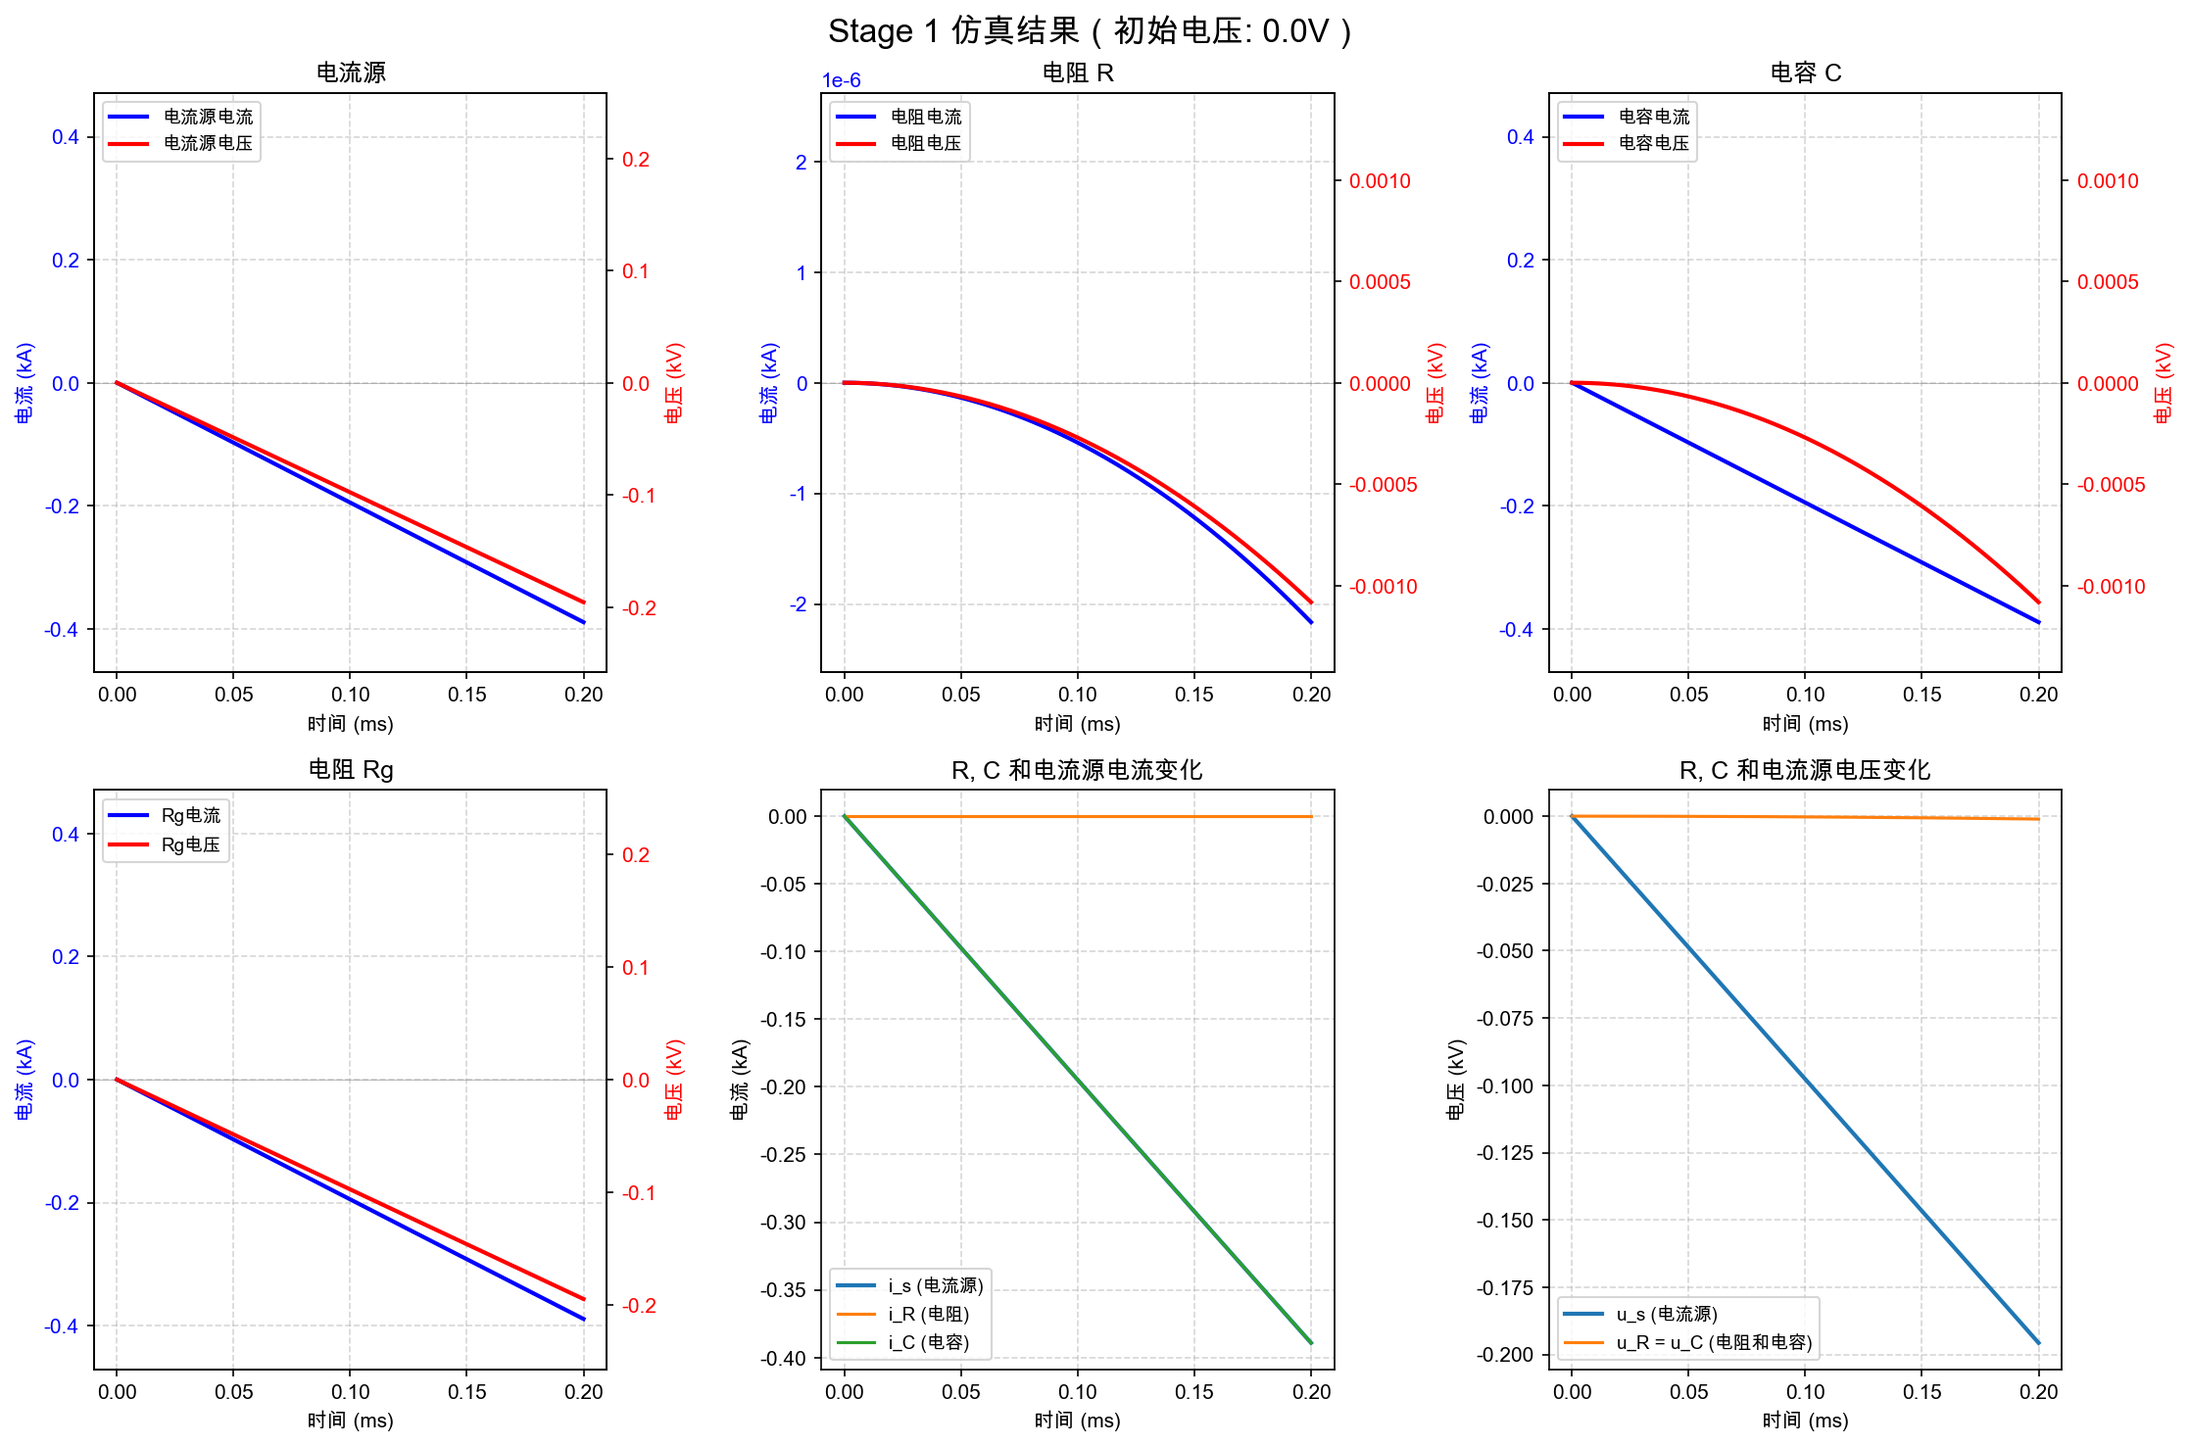
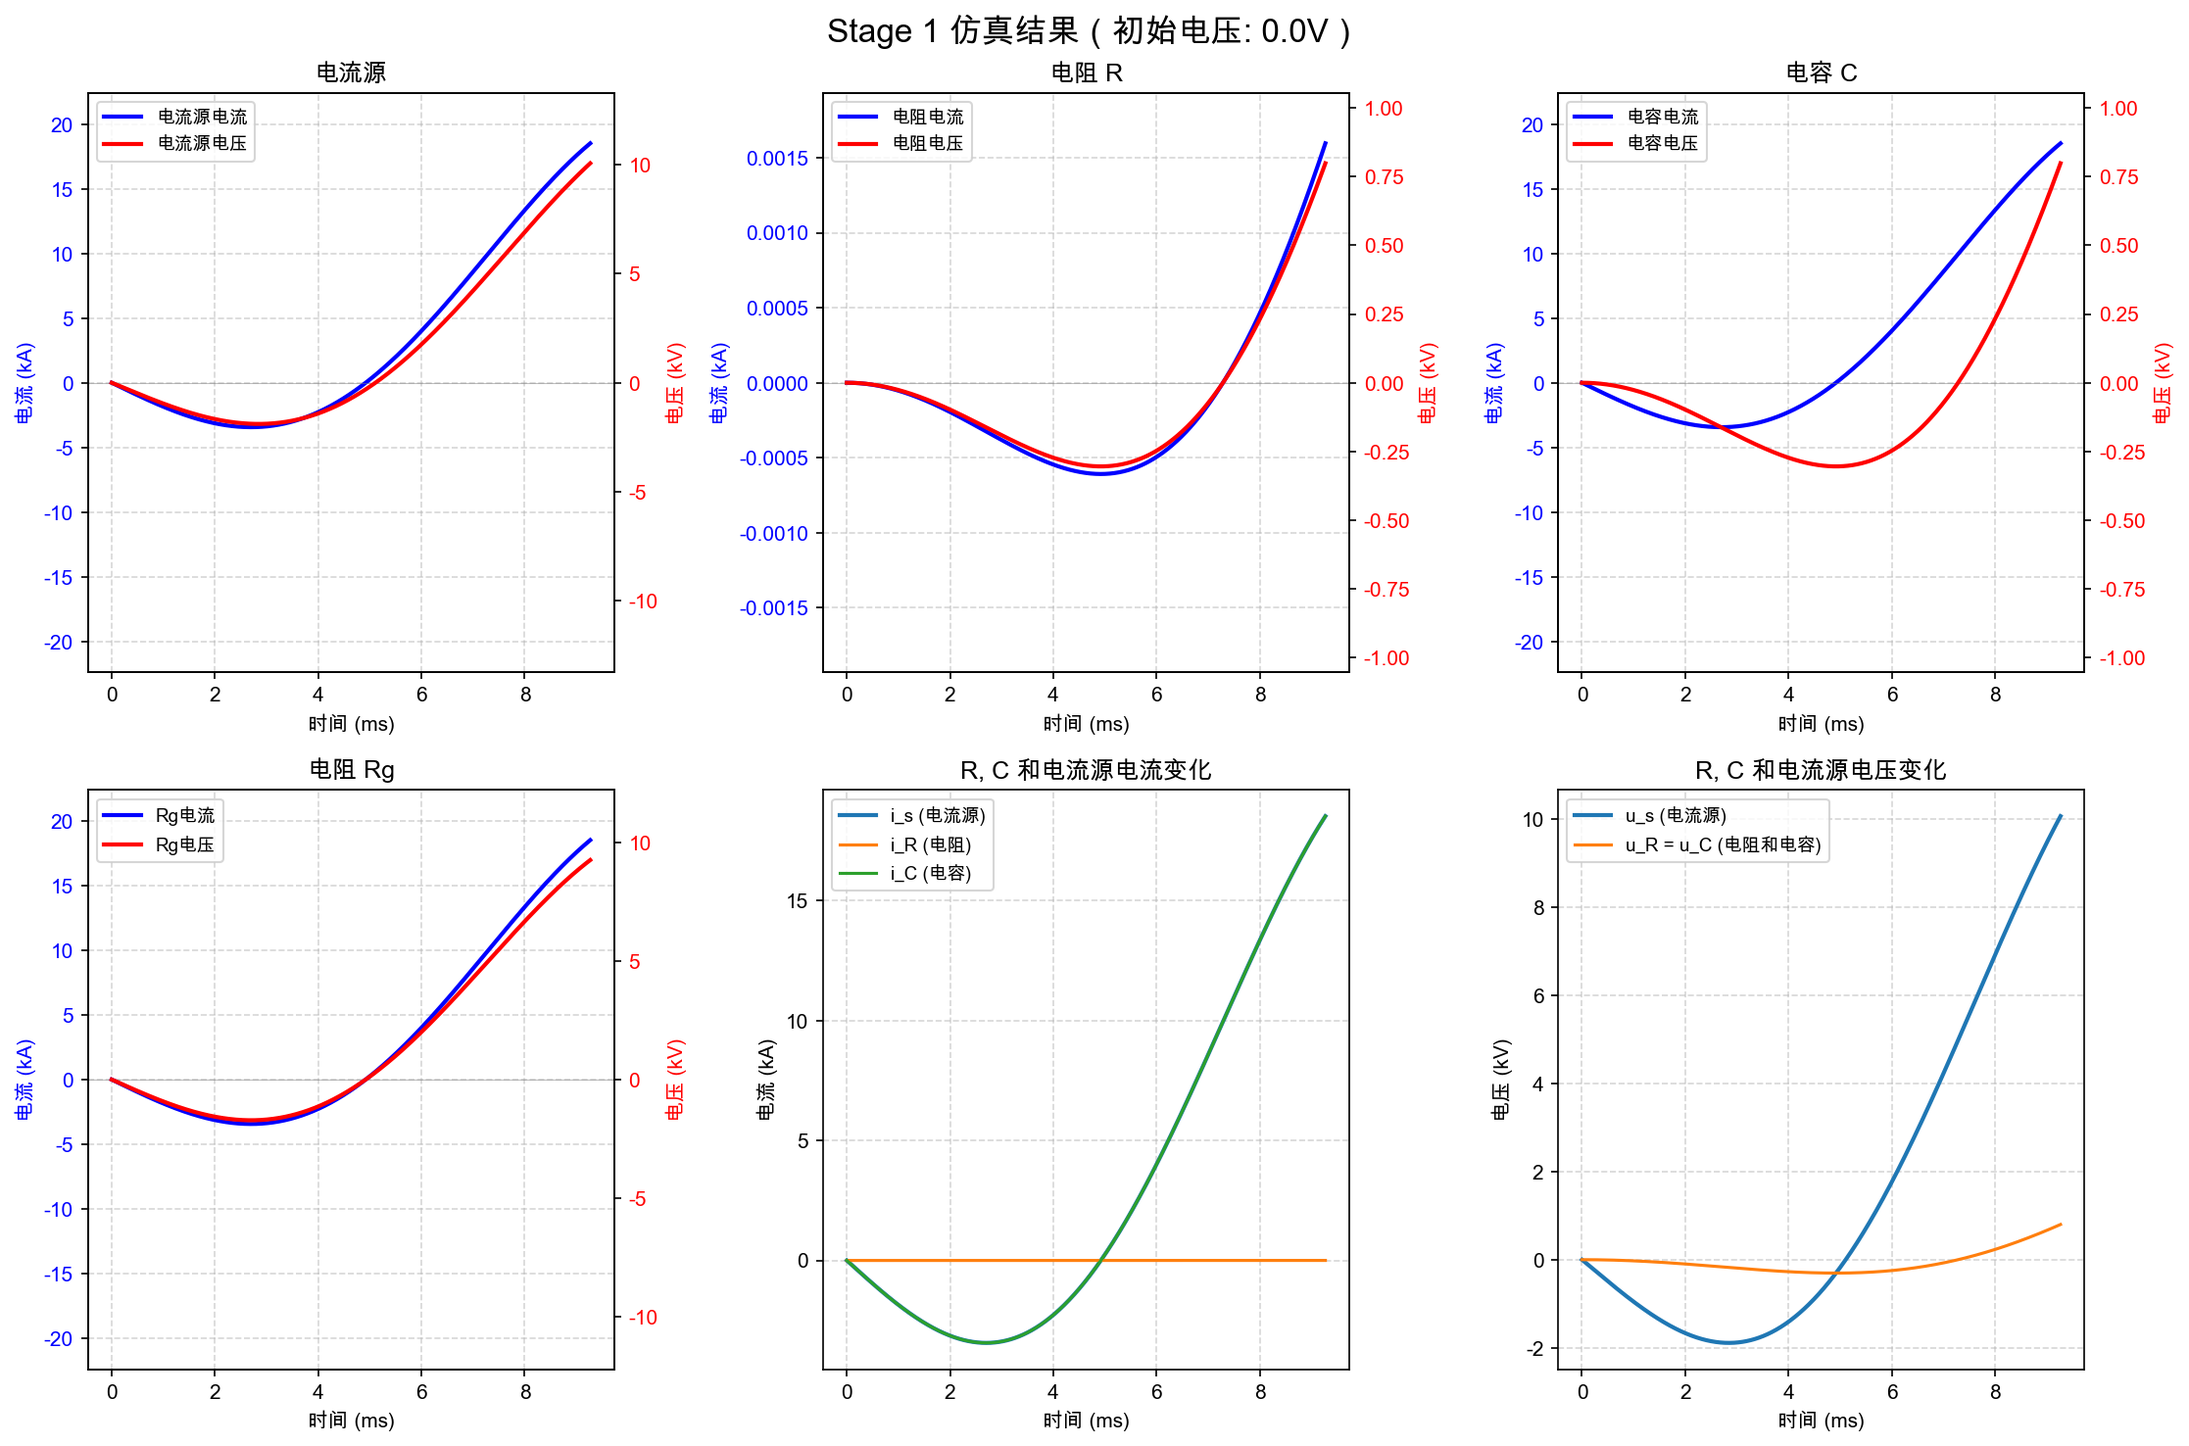
Update the cutoff time of stage_1

diff --git a/sources/stage_2.py b/sources/stage_2.py
@@ -111,7 +111,7 @@ from pathlib import Path
 from source import neutral_current
 from graph import plot_circuit_results
 from serialize import save_results_to_csv
-from reader import get_stage1_final_values
+from reader import get_stage1_final_values, get_stage1_final_time_and_u_c
 from circuit_params import (
     C, R, Rg, L,
     U_D1_THRESHOLD, U_D2_THRESHOLD, U_SCR_THRESHOLD,
@@ -121,8 +121,8 @@ from circuit_params import (
 )
 
 # ==================== 时间参数 ====================
-# 时间范围：200微秒到50毫秒
-T_START = 200e-6  # 200 微秒 = 0.0002 秒
+# 时间范围：从Stage 1结束时间到50毫秒
+# T_START 将从Stage 1的CSV文件中读取（动态设置）
 T_END = 50e-3  # 50 毫秒 = 0.05 秒
 DT = 10e-6  # 采样间隔：10 微秒 = 0.00001 秒
 
@@ -318,16 +318,16 @@ def stage2_ode(t: float, y: np.ndarray) -> np.ndarray:
     return np.array([du_c_dt, di_l_dt])
 
 
-def simulate_stage2(u0: float, i_l0: float = 0.0, t_start: float = T_START, 
+def simulate_stage2(u0: float, i_l0: float = 0.0, t_start: float | None = None, 
                     t_end: float = T_END, dt: float = DT, method: str = 'Radau', 
                     rtol: float = 1e-8, atol: float = 1e-10) -> tuple[np.ndarray, np.ndarray, np.ndarray, dict]:
     """
-    仿真 Stage 2（200微秒-50毫秒）的电路响应
+    仿真 Stage 2（从Stage 1结束时间到50毫秒）的电路响应
     
     参数：
         u0: 初始电容电压（V），从Stage 1的最终值继承
         i_l0: 初始电感电流（A），默认0
-        t_start: 仿真开始时间（秒），默认200微秒
+        t_start: 仿真开始时间（秒），如果为None则从Stage 1的CSV文件读取
         t_end: 仿真结束时间（秒），默认50毫秒
         dt: 采样间隔（秒），默认10微秒
         method: 求解器方法
@@ -340,6 +340,17 @@ def simulate_stage2(u0: float, i_l0: float = 0.0, t_start: float = T_START,
         i_l: 电感电流数组（A）
         results: 字典，包含各支路电流和电压
     """
+    # 如果t_start为None，尝试从Stage 1的CSV文件读取
+    if t_start is None:
+        try:
+            results_dir = Path(__file__).parent.parent / "results"
+            t_start, _ = get_stage1_final_time_and_u_c(u0, results_dir)
+            print(f"从Stage 1 CSV文件读取开始时间: t_start = {t_start*1000:.6f} ms")
+        except (FileNotFoundError, KeyError) as e:
+            print(f"警告: 无法从Stage 1 CSV文件读取开始时间: {e}")
+            print(f"使用默认值: t_start = 200e-6 (200微秒)")
+            t_start = 200e-6
+    
     # 时间采样点
     t_eval = np.arange(t_start, t_end + dt / 2, dt)
     
@@ -524,14 +535,18 @@ if __name__ == "__main__":
     # 情况1：初始电压为 0V（从Stage 1继承）
     stage1_u0_case1 = U0_CASE1
     try:
-        u_c_stage1_final, _ = get_stage1_final_values(stage1_u0_case1, results_dir)
-        print(f"从Stage 1 (u0={stage1_u0_case1}V) 继承: u_C(200µs) = {u_c_stage1_final:.6f} V")
+        t_stage1_end, u_c_stage1_final = get_stage1_final_time_and_u_c(stage1_u0_case1, results_dir)
+        print(f"从Stage 1 (u0={stage1_u0_case1}V) 继承:")
+        print(f"  结束时间: t = {t_stage1_end*1000:.6f} ms")
+        print(f"  u_C = {u_c_stage1_final:.6f} V")
         u0_case1 = u_c_stage1_final
+        t_start_case1 = t_stage1_end
     except FileNotFoundError:
-        print(f"警告: 未找到Stage 1的结果文件 (u0={stage1_u0_case1}V)，使用默认值 {U0_CASE1}V")
+        print(f"警告: 未找到Stage 1的结果文件 (u0={stage1_u0_case1}V)，使用默认值")
         u0_case1 = U0_CASE1
+        t_start_case1 = 200e-6  # 默认200微秒
     
-    t1, u_c1, i_l1, results1 = simulate_stage2(u0_case1)
+    t1, u_c1, i_l1, results1 = simulate_stage2(u0_case1, t_start=t_start_case1)
     print_summary(t1, u_c1, i_l1, results1, u0_case1)
     
     # 定义Stage 2的绘图配置
@@ -595,14 +610,18 @@ if __name__ == "__main__":
     # 情况2：初始电压为 750V（从Stage 1继承）
     stage1_u0_case2 = U0_CASE2
     try:
-        u_c_stage1_final, _ = get_stage1_final_values(stage1_u0_case2, results_dir)
-        print(f"\n从Stage 1 (u0={stage1_u0_case2}V) 继承: u_C(200µs) = {u_c_stage1_final:.6f} V")
+        t_stage1_end, u_c_stage1_final = get_stage1_final_time_and_u_c(stage1_u0_case2, results_dir)
+        print(f"\n从Stage 1 (u0={stage1_u0_case2}V) 继承:")
+        print(f"  结束时间: t = {t_stage1_end*1000:.6f} ms")
+        print(f"  u_C = {u_c_stage1_final:.6f} V")
         u0_case2 = u_c_stage1_final
+        t_start_case2 = t_stage1_end
     except FileNotFoundError:
-        print(f"警告: 未找到Stage 1的结果文件 (u0={stage1_u0_case2}V)，使用默认值 {U0_CASE2}V")
+        print(f"警告: 未找到Stage 1的结果文件 (u0={stage1_u0_case2}V)，使用默认值")
         u0_case2 = U0_CASE2
+        t_start_case2 = 200e-6  # 默认200微秒
     
-    t2, u_c2, i_l2, results2 = simulate_stage2(u0_case2)
+    t2, u_c2, i_l2, results2 = simulate_stage2(u0_case2, t_start=t_start_case2)
     print_summary(t2, u_c2, i_l2, results2, u0_case2)
     
     csv_path2 = results_dir / f"stage_2_results_u0_{stage1_u0_case2:.0f}V.csv"

diff --git a/sources/stage_1.py b/sources/stage_1.py
@@ -32,8 +32,9 @@ Stage 1: 0-200微秒电路仿真
 
 4. 数值求解：
    使用 scipy.integrate.solve_ivp 求解状态方程
-   时间范围：0 到 200 微秒（0 到 0.0002 秒）
-   采样间隔：1 微秒（0.000001 秒）
+   时间范围：0 到 200 毫秒（0 到 0.2 秒）
+   采样间隔：10 微秒（0.00001 秒）
+   退出条件：当 |u_C| > 800V 时自动停止仿真（事件检测）
 
 5. scipy.integrate.solve_ivp 接口约定：
    solve_ivp 要求传入的函数 fun(t, y) 必须返回 dy/dt（状态变量的导数）
@@ -67,10 +68,10 @@ from serialize import save_results_to_csv
 from circuit_params import C, R, Rg, U0_CASE1, U0_CASE2
 
 # ==================== 时间参数 ====================
-# 时间范围：0 到 200 微秒
+# 时间范围：0 到 200 毫秒
 T_START = 0.0
-T_END = 200e-6  # 200 微秒 = 0.0002 秒
-DT = 1e-6  # 采样间隔：1 微秒 = 0.000001 秒
+T_END = 200e-3  # 200 毫秒 = 0.2 秒
+DT = 10e-6  # 采样间隔：10 微秒 = 0.00001 秒
 
 
 def stage1_ode(t: float, u_c: np.ndarray) -> np.ndarray:
@@ -109,15 +110,50 @@ def stage1_ode(t: float, u_c: np.ndarray) -> np.ndarray:
     return np.array([du_dt])  # 返回数组，形状与 y0 一致
 
 
+def u_c_threshold_event(t: float, u_c: np.ndarray) -> float:
+    """
+    事件函数：当 |u_C| >= 800V 时触发事件，停止仿真
+    
+    参数：
+        t: 时间（秒）
+        u_c: 电容电压 u_C（作为状态变量 y[0] 传入，可能是数组或列表）
+    
+    返回：
+        返回值 = |u_C| - 800.0
+        - 当 |u_C| < 800 时，返回值 < 0（负值）
+        - 当 |u_C| >= 800 时，返回值 >= 0（非负值）
+    
+    事件触发机制：
+        solve_ivp检测函数值的符号变化（从负到正），而不是精确等于0
+        - 当返回值从负值变为非负值时，触发事件
+        - 不需要返回值精确等于0，避免了浮点数精度问题
+        - 这确保了当 |u_C| 从小于800变为大于等于800时，一定会触发事件
+    """
+    # 正确处理u_c的类型：可能是numpy数组、列表或标量
+    if isinstance(u_c, (np.ndarray, list)):
+        u_c_val = float(u_c[0])
+    else:
+        u_c_val = float(u_c)
+    
+    # 返回 |u_C| - 800.0
+    # solve_ivp会检测这个值从负到正的符号变化，触发事件
+    # 不需要精确等于0，只要符号从负变为非负即可
+    return abs(u_c_val) - 800.0
+
+
+u_c_threshold_event.terminal = True  # 事件触发时终止仿真
+u_c_threshold_event.direction = 1  # 只检测从负到正的穿越（|u_C|从小于800变为大于等于800）
+
+
 def simulate_stage1(u0: float, t_end: float = T_END, dt: float = DT,
                     method: str = 'Radau', rtol: float = 1e-8, atol: float = 1e-10) -> tuple[np.ndarray, np.ndarray, dict]:
     """
-    仿真 Stage 1（0-200微秒）的电路响应
+    仿真 Stage 1（0-200毫秒）的电路响应
     
     参数：
         u0: 初始电容电压（V）
-        t_end: 仿真结束时间（秒），默认200微秒
-        dt: 采样间隔（秒），默认1微秒
+        t_end: 仿真结束时间（秒），默认200毫秒
+        dt: 采样间隔（秒），默认10微秒
         method: 求解器方法，可选：
             - 'Radau': 隐式方法（默认，适合刚性问题）
             - 'RK45': 4-5阶Runge-Kutta（适合非刚性问题）
@@ -131,11 +167,15 @@ def simulate_stage1(u0: float, t_end: float = T_END, dt: float = DT,
         t: 时间数组（秒）
         u_c: 电容电压数组（V）
         results: 字典，包含各支路电流和电压
+    
+    注意：
+        - 当 |u_C| > 800V 时，仿真会自动停止（事件检测）
+        - 如果未触发事件，仿真会持续到 t_end
     """
-    # 时间采样点
+    # 时间采样点（最多到t_end，但可能因事件提前结束）
     t_eval = np.arange(T_START, t_end + dt / 2, dt)
     
-    # 求解ODE
+    # 求解ODE，添加事件检测
     sol = solve_ivp(
         fun=stage1_ode,
         t_span=(T_START, t_end),
@@ -143,7 +183,8 @@ def simulate_stage1(u0: float, t_end: float = T_END, dt: float = DT,
         t_eval=t_eval,
         method=method,
         rtol=rtol,
-        atol=atol
+        atol=atol,
+        events=u_c_threshold_event  # 添加事件检测
     )
     
     # solve_ivp 返回值说明：
@@ -163,6 +204,11 @@ def simulate_stage1(u0: float, t_end: float = T_END, dt: float = DT,
     # - sol.y 形状为 (2, m)
     # - sol.y[0] 是 u_C 的时间序列
     # - sol.y[1] 是 i_L 的时间序列
+    # 检查是否因事件提前终止
+    if sol.t_events and len(sol.t_events[0]) > 0:
+        event_time = sol.t_events[0][0]
+        print(f"注意: 仿真在 t = {event_time*1000:.6f} ms 时因 |u_C| > 800V 而提前终止")
+    
     t = sol.t
     u_c = sol.y[0]  # 提取第一个（也是唯一的）状态变量 u_C 的时间序列
     

diff --git a/sources/reader.py b/sources/reader.py
@@ -93,6 +93,26 @@ def get_stage1_final_values(u0: float, results_dir: Path | None = None) -> tuple
     return u_c_final, i_l_final
 
 
+def get_stage1_final_time_and_u_c(u0: float, results_dir: Path | None = None) -> tuple[float, float]:
+    """
+    获取Stage 1的最终时间和u_C值
+    
+    参数：
+        u0: 初始电压（V）
+        results_dir: results文件夹路径（可选）
+    
+    返回：
+        (t_final, u_C_final) 元组，t_final单位为秒
+    """
+    final_values = get_stage_final_values('Stage 1', u0, results_dir)
+    
+    # 从CSV文件读取时间（秒）
+    t_final = final_values.get('时间 (s)', 0.0)
+    u_c_final = final_values.get('u_C (V)', 0.0)
+    
+    return t_final, u_c_final
+
+
 def get_stage2_final_values(u0: float, results_dir: Path | None = None) -> tuple[float, float]:
     """
     获取Stage 2的最终值（u_C和i_L）

diff --git a/README.md b/README.md
@@ -30,11 +30,11 @@ i_s(t) = {
 
 ## 仿真阶段
 
-### Stage 1: 0-200微秒
+### Stage 1: 0-200毫秒（或当|u_C| > 800V时停止）
 
 #### 电路拓扑
 
-在0-200微秒阶段，SCR和K3所在回路尚未导通，短路电流通过R//C回路，再串Rg后通流。
+在0-200毫秒阶段（或当电容电压绝对值超过800V时），SCR和K3所在回路尚未导通，短路电流通过R//C回路，再串Rg后通流。
 
 **拓扑结构**: 电流源 → R∥C → Rg → 地
 
@@ -71,10 +71,16 @@ du_C/dt = (i_s(t) - u_C / R) / C
 
 - **求解器**: `scipy.integrate.solve_ivp`
 - **方法**: Radau（适用于刚性问题）
-- **时间范围**: 0 到 200 微秒 (0 到 0.0002 秒)
-- **采样间隔**: 1 微秒 (0.000001 秒)
+- **时间范围**: 0 到 200 毫秒 (0 到 0.2 秒)，或当`|u_C| ≥ 800V`时提前停止
+- **采样间隔**: 10 微秒 (0.00001 秒)
+- **终止条件**: 当`|u_C| ≥ 800V`时触发事件，停止仿真
 - **相对容差**: 1e-8
 - **绝对容差**: 1e-10
+
+**事件检测**:
+- 使用`solve_ivp`的事件功能检测`|u_C| ≥ 800V`条件
+- 事件函数返回`|u_C| - 800.0`，当从负值变为非负值时触发
+- 事件触发后仿真立即停止，确保不超过安全阈值
 
 #### 仿真结果
 
@@ -88,13 +94,18 @@ du_C/dt = (i_s(t) - u_C / R) / C
 
 ---
 
-### Stage 2: 200微秒-50毫秒
+### Stage 2: Stage 1结束时间-50毫秒
 
 #### 电路拓扑
 
-在200微秒时，电子旁路（整流桥）导通，电路拓扑发生变化。
+在Stage 1结束时（当`|u_C| ≥ 800V`或达到200ms时），电子旁路（整流桥）导通，电路拓扑发生变化。
 
 **拓扑结构**: 电流源 → [L-整流桥 | R | C] → Rg → 地
+
+**初始条件继承**:
+- Stage 2的开始时间从Stage 1的CSV结果文件中读取（Stage 1的结束时间）
+- Stage 2的初始`u_C`值从Stage 1的CSV结果文件中读取（Stage 1的最终`u_C`值）
+- Stage 2的初始`i_L`值设为0（Stage 1没有电感）
 
 #### 整流桥电路
 
@@ -173,8 +184,9 @@ di_L/dt = (u_C - u_bypass) / L
 
 - **求解器**: `scipy.integrate.solve_ivp`
 - **方法**: Radau
-- **时间范围**: 200 微秒到 50 毫秒 (0.0002 到 0.05 秒)
+- **时间范围**: 从Stage 1的结束时间到 50 毫秒（动态确定开始时间）
 - **采样间隔**: 10 微秒 (0.00001 秒)
+- **初始条件**: 从Stage 1的CSV结果文件中自动读取结束时间和`u_C`值
 - **平滑处理**: 使用`tanh`函数平滑整流桥在`i_L = 0`处的电压跳变，避免数值不稳定
 
 #### 仿真结果
@@ -378,15 +390,22 @@ python stage_3.py
 
 2. **初始条件**:
    - Stage 1需要手动指定初始电压（0V或750V）
-   - Stage 2和Stage 3自动从上一阶段继承初始条件
+   - Stage 2自动从Stage 1的CSV结果文件中读取结束时间和`u_C`值作为初始条件
+   - Stage 3自动从Stage 2的CSV结果文件中读取结束时间和`u_C`、`i_L`值作为初始条件
+   - 各阶段的开始时间由上一阶段的结束时间决定，确保时间连续性
 
 3. **采样间隔**:
-   - Stage 1: 1微秒（高频响应）
+   - Stage 1: 10微秒（平衡精度和效率）
    - Stage 2和Stage 3: 10微秒（平衡精度和效率）
 
-4. **结果文件**:
+4. **终止条件**:
+   - Stage 1会在`|u_C| ≥ 800V`时提前停止，或运行到200ms
+   - Stage 2和Stage 3运行到指定的结束时间（50ms和200ms）
+
+5. **结果文件**:
    - CSV文件使用UTF-8-BOM编码，可在Excel中正确显示中文
    - 图片文件保存在`results/`目录，不会自动显示，仅保存
+   - Stage 2和Stage 3会读取Stage 1和Stage 2的CSV文件来获取初始条件，确保运行顺序正确
 
 ## 参考文献
 
